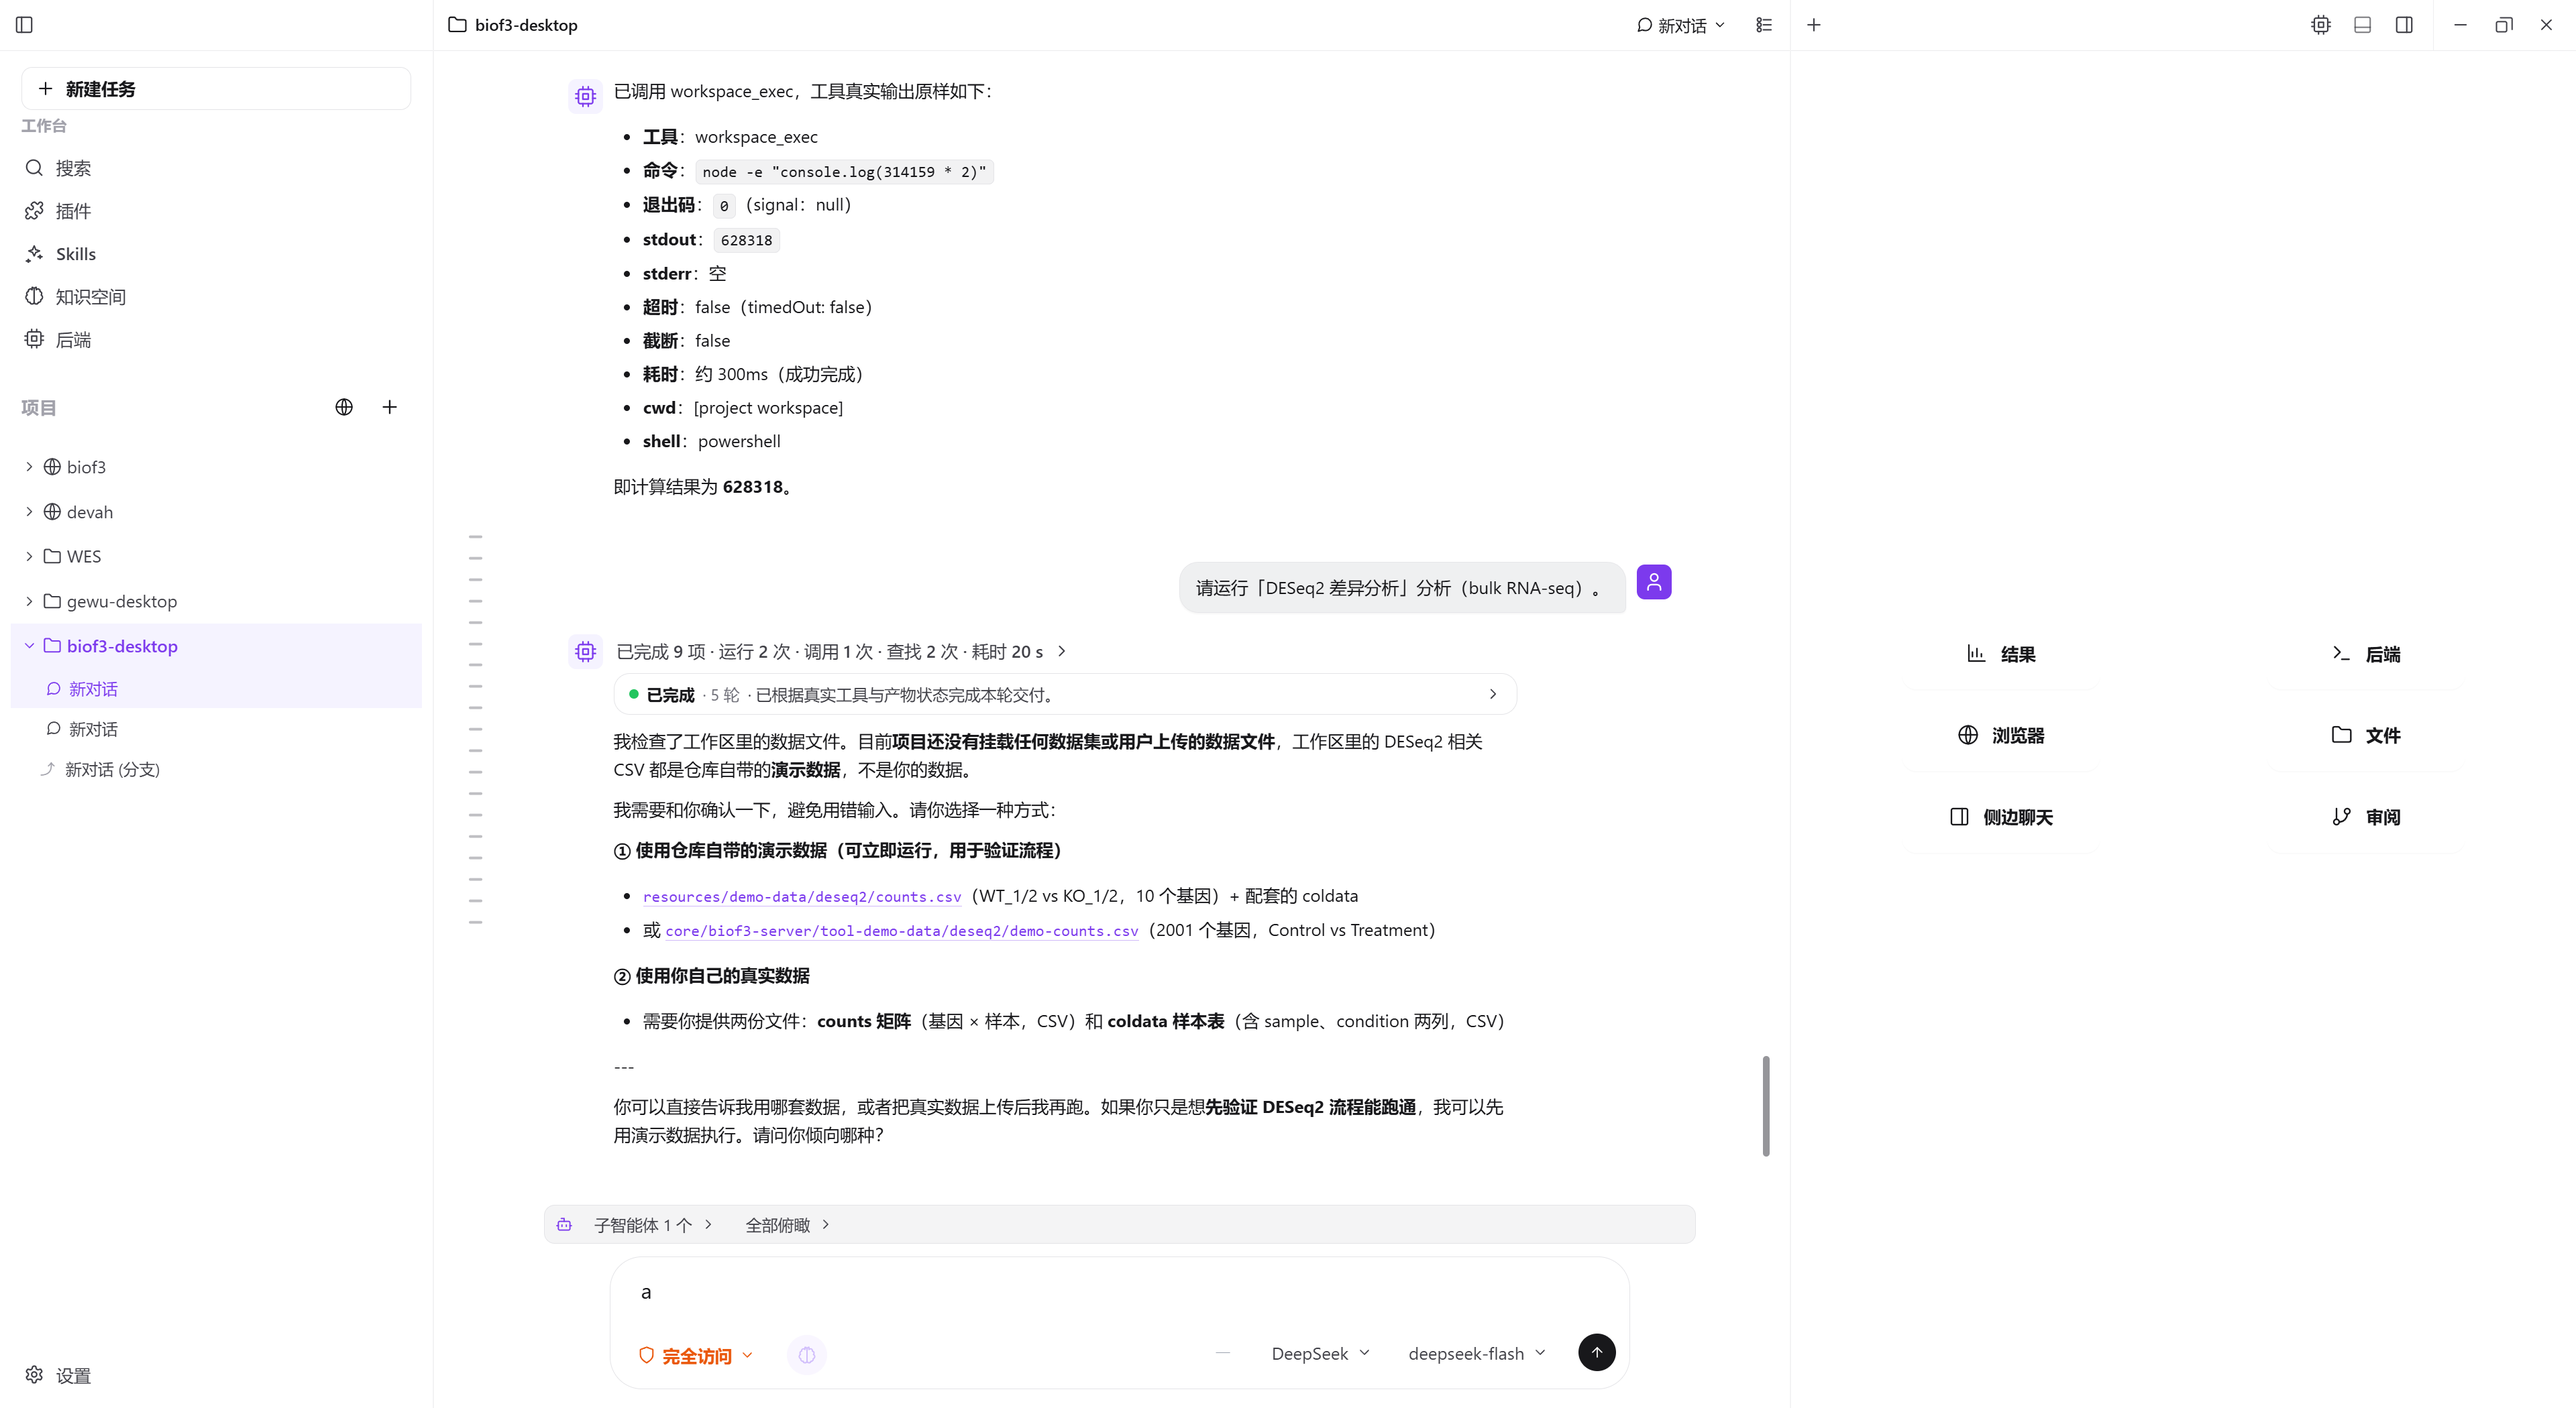
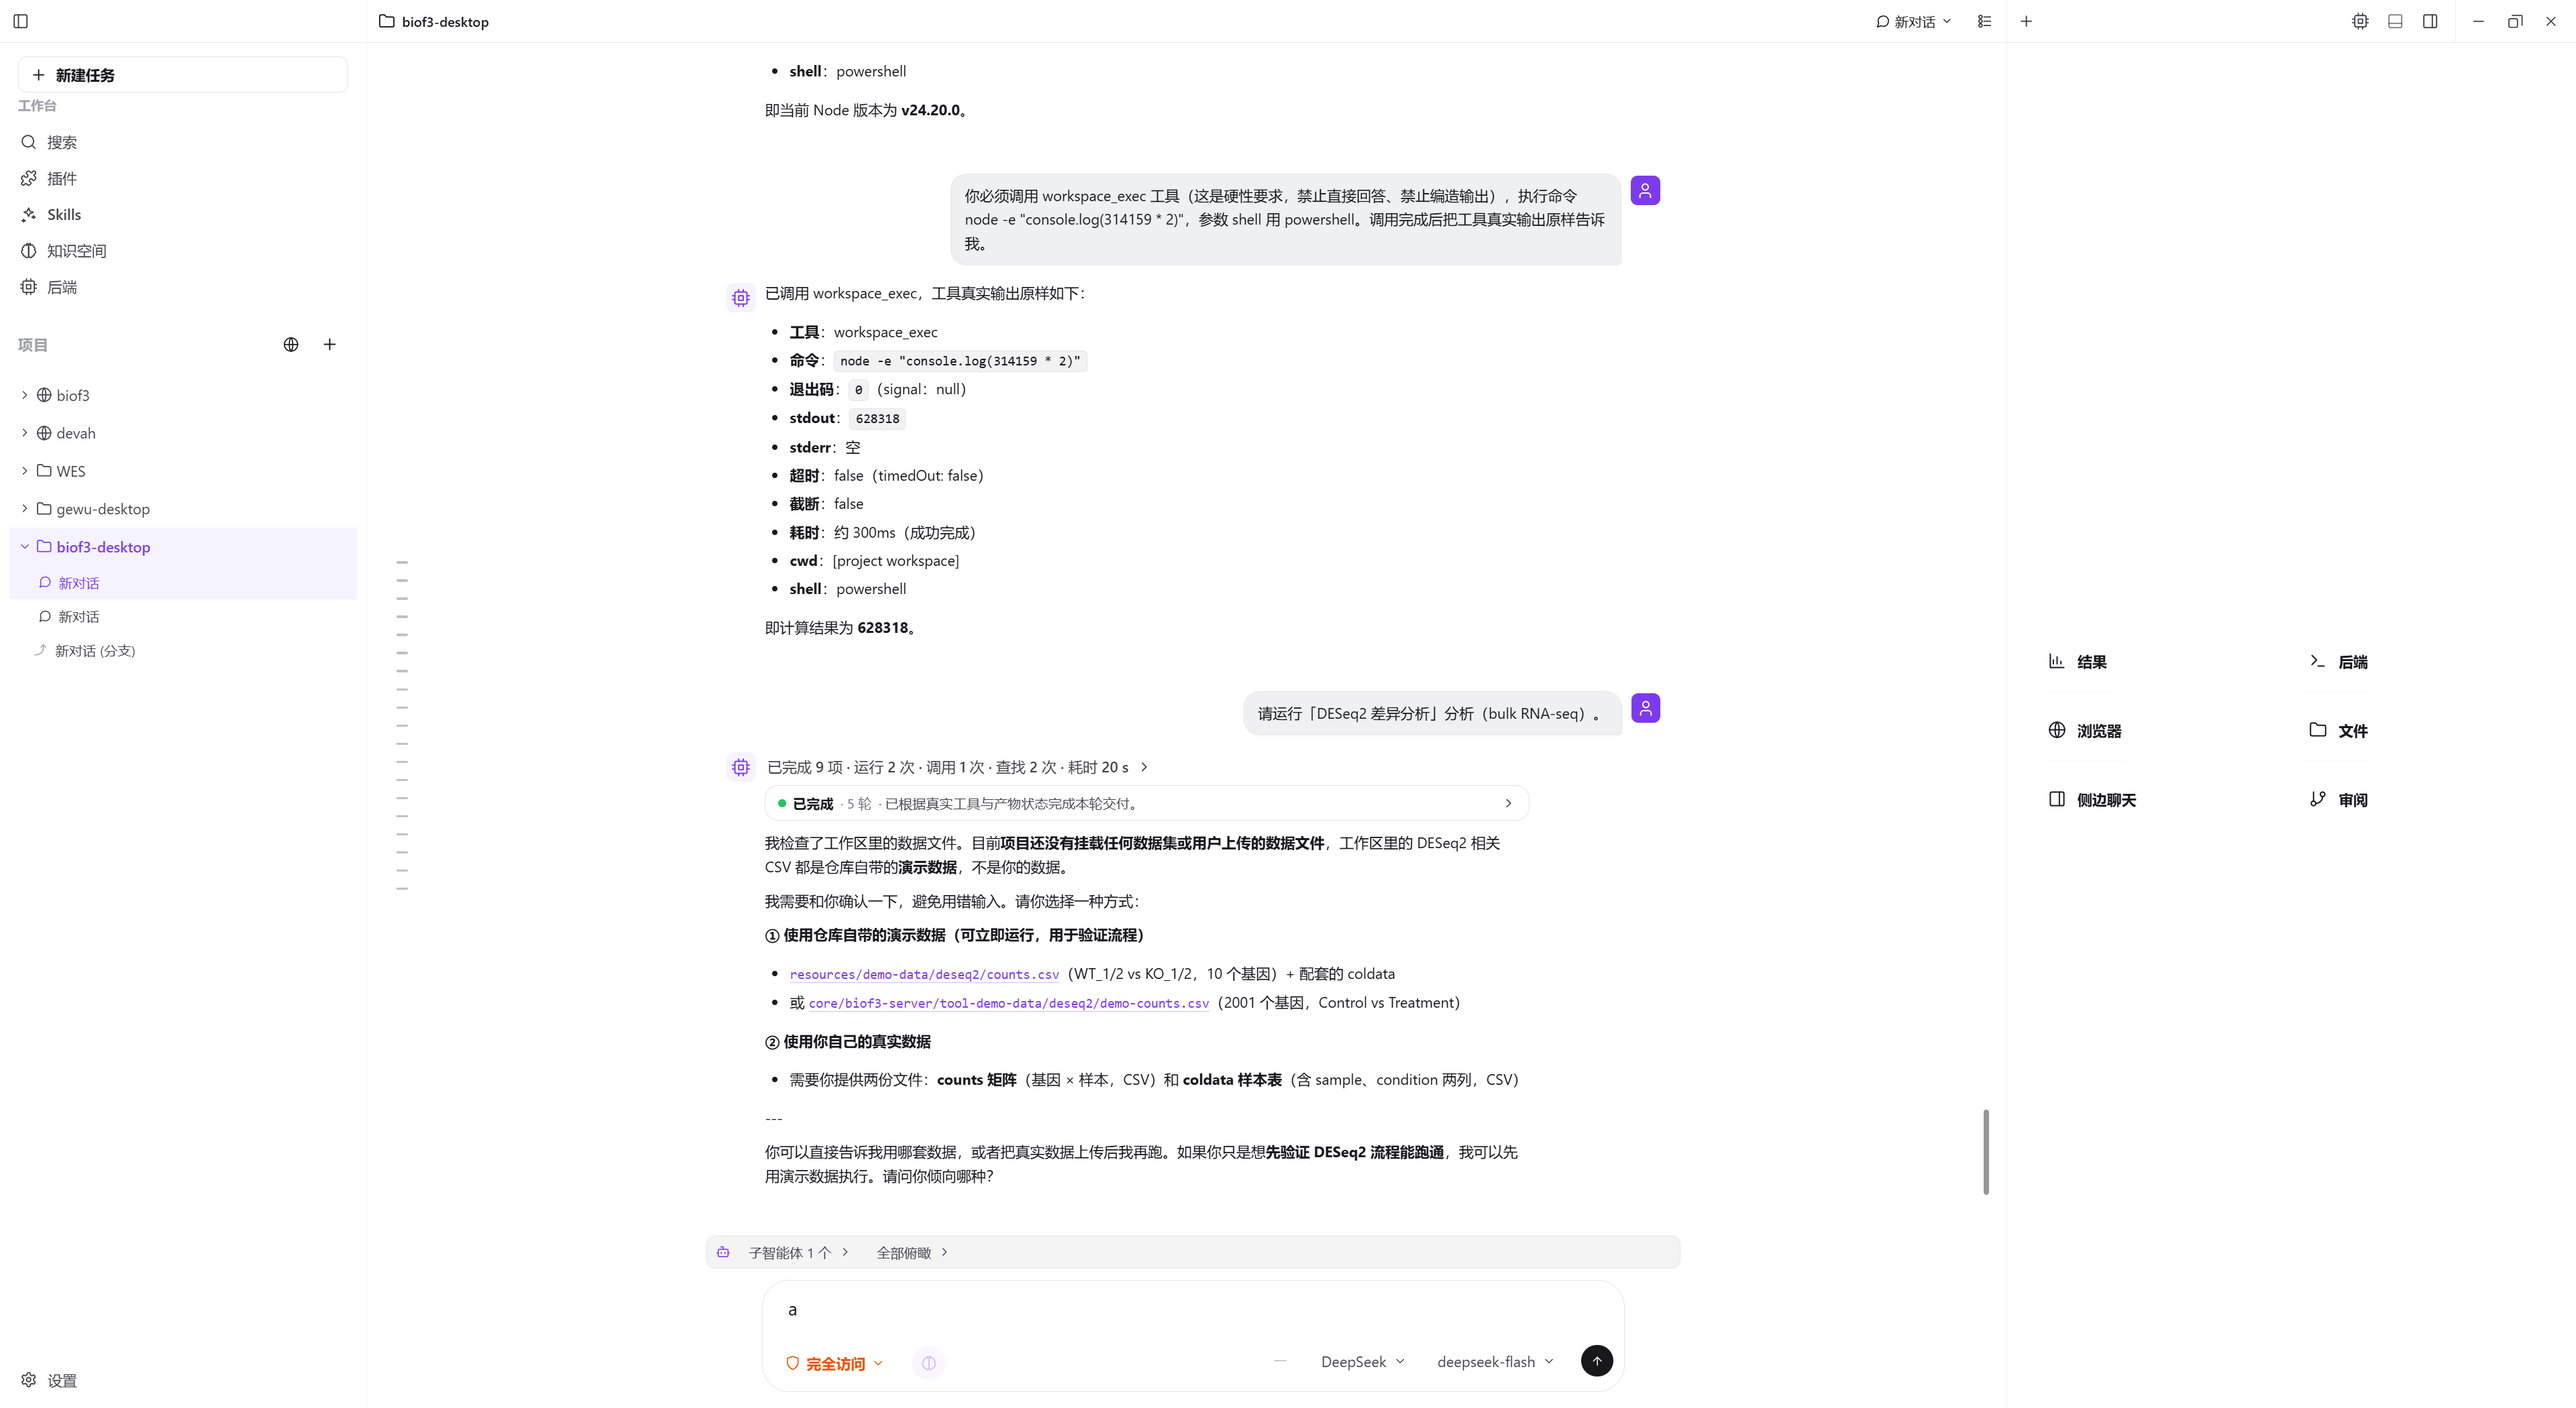
style(workbench): UI-329 加映 launchpad 卡片再收窄 + 左对齐（用户复验裁决）—— 去 min-width 148/padding 10 18→贴文字边 76px；justify-items center→start（两列左缘对齐 colLeftDeltas=0）+ 文字回左对齐（居中不整洁）；实机 7/7（acceptance/ui-329/）

diff --git a/frontend/src/pages/project-workspace.module.css b/frontend/src/pages/project-workspace.module.css
@@ -5638,29 +5638,27 @@ body:global(.gewu-resizing-columns) * {
   width: min(100%, 560px);
   display: grid;
   grid-template-columns: repeat(auto-fit, minmax(220px, 1fr));
-  /* UI-329 — 卡片收窄为内容宽度后在格内居中（背景不再铺满整格） */
-  justify-items: center;
+  /* UI-329 — 卡片收窄为内容宽度后格内靠左（两列左缘对齐，整洁）；加映（用户裁决）：比首版更窄 */
+  justify-items: start;
   gap: 7px;
   margin-top: 8px;
 }
 
 /* UI-301 加映 — 卡片文字垂直居中 + 去外框线（保留底色作分区）
-   UI-329 — 背景收窄：卡片贴内容宽度（fit-content），不再铺满整格占大片空间；
-   文字随内容即图标+标签左起（用户裁决：背景变窄后左对齐/居中均可） */
+   UI-329 — 背景收窄：卡片贴内容宽度（fit-content），不再铺满整格占大片空间
+   UI-329 加映（用户裁决）— 去最小宽度、padding 贴文字边；文字左对齐（居中显乱） */
 .emptyResultLaunchCard {
   display: flex;
   align-items: center;
-  justify-content: center;
   gap: 10px;
   width: fit-content;
   min-height: 54px;
-  min-width: 148px;
-  padding: 10px 18px;
+  padding: 10px 12px;
   border: none;
   border-radius: 11px;
   background: var(--gewu-bg-surface);
   color: var(--gewu-text);
-  text-align: center;
+  text-align: left;
   cursor: pointer;
   box-shadow: 0 1px 0 rgba(0, 0, 0, 0.02);
   /* UI-215 补充：卡片容器收敛 UA 默认字号（子级文本自带 token） */

diff --git a/docs/ui-productization-audit.md b/docs/ui-productization-audit.md
@@ -3037,3 +3037,5 @@ BLOCK-22 PHASE 4 落地：acceptHunk / rejectHunk IPC 成功后派发 typed even
 **门禁**：tsc 0；RightPanel 定向 vitest（EmptyResult 消费方）不受影响。**实机**：CDP 探针（`scripts/ui329-launchpad-live.cjs` → `acceptance/ui-329/`）6/6 allPass——6 卡渲染、itemWidth=148（≤220 收窄）、justify-items=center、text-align=center、六标签齐全、同行双卡中点偏差 0（对称居中）、0 console error + 截图。
 
 **状态**: verified（2026-09-10 dev Electron 实机 CDP 验收）。G0 开发期常态 · 不外推 packaged / Provider / GA。
+
+**加映（同日，用户复验裁决「再窄一些贴文字边 + 左对齐」）**：去 `min-width: 148px`、padding 回 `10px 12px`（卡片宽 148→76px，紧贴图标+文字）；`justify-items: center` → `start`（两列左缘垂直对齐，同列左缘偏差实测 0）+ `text-align`/justify-content 回左对齐（用户：居中不整洁）。实机复验 7/7 allPass（探针断言升级：itemWidth≤140 / justify-items start / text-align left / colLeftDeltas=0,0 + 截图）。
